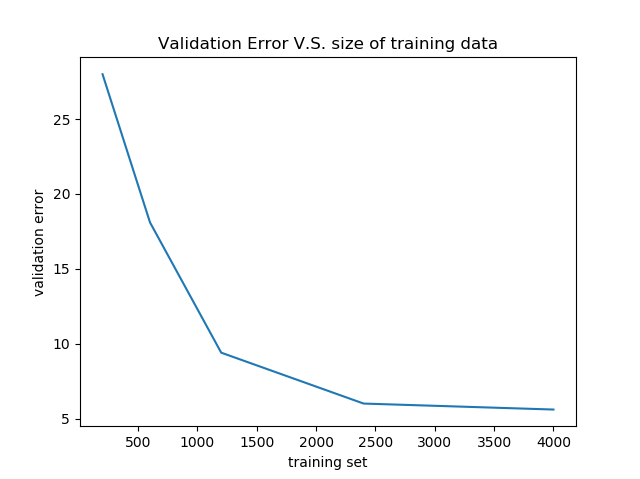
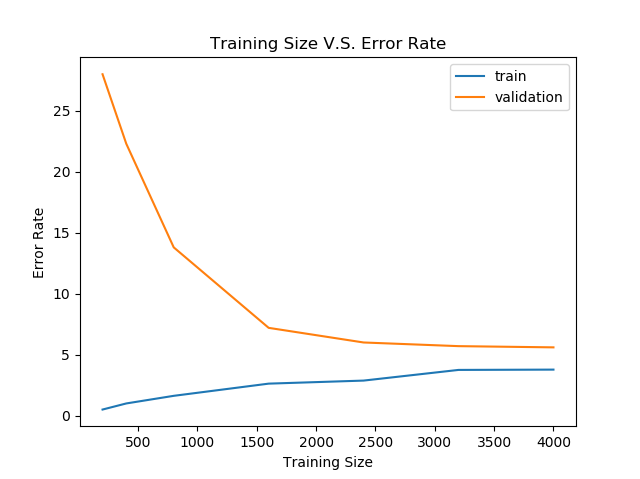
add q1

diff --git a/homework3/naive-bayes-skeleton.py b/homework3/naive-bayes-skeleton.py
@@ -2,7 +2,7 @@
 Put your NetID here.
 """
 
-
+import matplotlib.pyplot as pyplot
 import sys
 import argparse
 import numpy as np
@@ -64,7 +64,7 @@ def create_wordlist(original_train_data, threshold=26):
             else:
                 words_dict[d] = 1
     ret = list(map(lambda word: word[0], filter(lambda x: x[1] >= threshold, words_dict.items())))
-    print(len(ret))
+    # print(len(ret))
     return ret
 
 
@@ -84,9 +84,9 @@ class Model:
         pos_counts = len(list(filter(lambda d: d[0], data)))
         total = len(data)
         neg_counts = total - pos_counts
-        print(total)
-        print(neg_counts)
-        print(pos_counts)
+        # print(total)
+        # print(neg_counts)
+        # print(pos_counts)
         return neg_counts, pos_counts
 
 
@@ -109,12 +109,12 @@ class Model:
             for word_idx in range(len(wordlist)):
                 if wordlist[word_idx] in d:
                     word_counts[idx][word_idx] += 1
-        print(max(word_counts[0]))
-        print(max(word_counts[1]))
+        # print(max(word_counts[0]))
+        # print(max(word_counts[1]))
         return np.asarray(word_counts)
 
     @staticmethod
-    def calculate_probability(label_counts, word_counts):
+    def calculate_probability(label_counts, word_counts, use_map=False):
         """
         Calculate the probabilities, both the prior and likelihood.
         Returns (a pair of numpy array):
@@ -131,18 +131,25 @@ class Model:
         neg, pos = label_counts
         total = neg + pos
         prior_probs = np.asarray([neg/total, pos/total])
-        likelihood_probs = list(map(lambda x, idx: list(map(lambda it: it / label_counts[idx], x)), word_counts, range(len(word_counts))))
+        if use_map:
+            likelihood_probs = list(map(lambda x, idx: list(map(lambda it: (it+1) / (label_counts[idx] + len(word_counts[idx])), x)), word_counts, range(len(word_counts))))
+        else:
+            likelihood_probs = list(map(lambda x, idx: list(map(lambda it: it / label_counts[idx], x)), word_counts, range(len(word_counts))))
 
         return prior_probs, np.asarray(likelihood_probs)
 
     def __init__(self, wordlist):
         self.wordlist = wordlist
 
-    def fit(self, data):
+    def fit(self, data, cal_error=False, use_map=False):
         label_counts = self.__class__.count_labels(data)
         word_counts = self.__class__.count_words(self.wordlist, data)
 
-        self.prior_probs, self.likelihood_probs = self.__class__.calculate_probability(label_counts, word_counts)
+        self.prior_probs, self.likelihood_probs = self.__class__.calculate_probability(label_counts, word_counts, use_map=use_map)
+        if cal_error:
+            error_count = sum([y != self.predict(x) for y, x in data])
+            error_percentage = error_count / len(data) * 100
+            return error_percentage
         # You may do some additional processing of variables here, if you want.
         # Suggestion: You may get the log of probabilities.
 
@@ -166,18 +173,12 @@ class Model:
         neg *= self.prior_probs[0]
         pos *= self.prior_probs[1]
 
-        if neg == 0:
+        if pos/neg >= 1:
             return True
-        if pos == 0:
-            return False
-
-        if neg/pos > 1:
-            return False
             
-        return True
+        return False
 
-
-def main(argv):
+def a(argv):
     opts = Opts(argv)
 
     if opts.test is None:
@@ -202,6 +203,98 @@ def main(argv):
     else:
         print("Test error, # = {:>4d}, % = {:>8.4f}%.".format(error_count, error_percentage))
 
+def b(argv):
+    opts = Opts(argv)
+
+    if opts.test is None:
+        original_train_data = read_data(opts.train)
+        train_data, val_data = split_train(original_train_data)
+    else:
+        original_train_data = read_data(opts.train)
+        train_data = original_train_data
+        val_data = read_data(opts.test)
+    sizeN = [200, 400, 800, 1600, 2400, 3200, 4000]
+    validation = []
+    train = []
+    for size in sizeN:
+        # Create the word list.
+        wordlist = create_wordlist(original_train_data, opts.threshold)
+
+        model = Model(wordlist)
+        train.append(model.fit(train_data[:size], cal_error=True))
+
+        error_count = sum([y != model.predict(x) for y, x in val_data])
+        error_percentage = error_count / len(val_data) * 100
+        print("Validation error, # = {:>4d}, % = {:>8.4f}%.".format(error_count, error_percentage))
+        validation.append(error_percentage)
+    trainLine = pyplot.plot(sizeN, train, label="train")
+    validationLine = pyplot.plot(sizeN, validation, label="validation")
+    pyplot.title("Training Size V.S. Error Rate")
+    pyplot.xlabel("Training Size")
+    pyplot.ylabel("Error Rate")
+    pyplot.legend(["train", "validation"])
+    pyplot.show()
+
+def c(argv):
+    opts = Opts(argv)
+
+    original_train_data = read_data(opts.train)
+    train_data, val_data = split_train(original_train_data)
+
+    config = [i for i in range(19, 29)]
+    validation = []
+    for size in config:
+        # Create the word list.
+        wordlist = create_wordlist(original_train_data, size)
+
+        model = Model(wordlist)
+        model.fit(train_data)
+
+        error_count = sum([y != model.predict(x) for y, x in val_data])
+        error_percentage = error_count / len(val_data) * 100
+        print("Validation error, # = {:>4d}, % = {:>8.4f}%.".format(error_count, error_percentage))
+        validation.append(error_percentage)
+    pyplot.plot(config, validation, "r")
+    pyplot.title("Threshold V.S. Error Rate")
+    pyplot.xlabel("Threshold")
+    pyplot.ylabel("Error Rate")
+    pyplot.show()
+
+def d(argv):
+    opts = Opts(argv)
+
+    if opts.test is None:
+        original_train_data = read_data(opts.train)
+        train_data, val_data = split_train(original_train_data)
+    else:
+        original_train_data = read_data(opts.train)
+        train_data = original_train_data
+        val_data = read_data(opts.test)
+
+    # Create the word list.
+    wordlist = create_wordlist(original_train_data, opts.threshold)
+
+    model = Model(wordlist)
+    model.fit(train_data)
+
+    error_count = sum([y != model.predict(x) for y, x in val_data])
+    error_percentage = error_count / len(val_data) * 100
+
+    print("MLE::Validation error, # = {:>4d}, % = {:>8.4f}%.".format(error_count, error_percentage))
+
+    model = Model(wordlist)
+    model.fit(train_data, use_map=True)
+
+    error_count = sum([y != model.predict(x) for y, x in val_data])
+    error_percentage = error_count / len(val_data) * 100
+
+    print("MAP::Validation error, # = {:>4d}, % = {:>8.4f}%.".format(error_count, error_percentage))
+
+def main(argv):
+    # a(argv)
+    # b(argv)
+    # c(argv)
+    d(argv)
 
 if __name__ == '__main__':
     main(sys.argv[1:])
